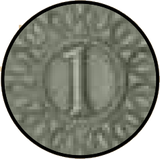
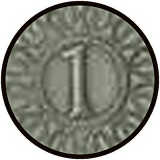
Чистое вырезание значков, уровень развития до 6, фикс обводки фокуса
Фактория и звезда развития теперь берутся из PDF вместе со своими
альфа-масками: раньше их вырезали заливкой фона с отрендеренной
страницы, из-за чего у фактории срезало правый бок, а у звезды
оставался серый ореол. Монета режется по окружности со сглаживанием
и получает ровную обводку вместо рваной. Все мелкие значки слегка
подняты по резкости после увеличения.

Уровень развития теперь до 6, а не до 5.

Поле ввода внутри степпера и кнопки переключателя уровня лежат
в блоке с overflow:hidden, поэтому внешняя обводка фокуса обрезалась
до синих полосок по бокам. Заменил её на рамку внутрь.

diff --git a/index.html b/index.html
@@ -49,6 +49,10 @@ body{margin:0;color:var(--ink);font:400 16px/1.45 var(--body);-webkit-text-size-
 button,input{font:inherit;color:inherit}
 button{touch-action:manipulation;-webkit-tap-highlight-color:transparent}
 :focus-visible{outline:3px solid var(--focus);outline-offset:2px}
+/* У степпера и переключателя уровня overflow:hidden, и внешняя обводка фокуса
+   обрезается до синих полосок по бокам поля. Внутри таких блоков подсвечиваем
+   рамкой внутрь — она видна целиком и не лезет на соседние кнопки. */
+.stepper :focus-visible,.seg :focus-visible{outline:none;box-shadow:inset 0 0 0 3px var(--focus)}
 h1,h2,h3{text-wrap:balance}
 img{max-width:100%}
 .sr{position:absolute;width:1px;height:1px;overflow:hidden;clip:rect(0 0 0 0);white-space:nowrap}
@@ -392,7 +396,7 @@ const CATS = [
   {id:'level', kind:'level', name:'Уровень развития', short:'Уровень развития', ico:'star',
     rule:'Множитель для факторий и жетонов горожан',
     hint:() => ({art:'<img src="img/star.png" alt="Звезда уровня развития" style="max-width:150px;margin:0 auto;box-shadow:none">',
-      text:['Уровень развития — это <b>жёлтая звезда</b>, которую ваш маркер на шкале развития прошёл последней. В начале игры уровень равен 1, максимум — 5.',
+      text:['Уровень развития — это <b>жёлтая звезда</b>, которую ваш маркер на шкале развития прошёл последней. В начале игры уровень равен 1, максимум — 6.',
             'Сам по себе уровень очков не даёт: на него умножаются фактории и жетоны горожан.',
             'При равенстве очков побеждает тот, кто продвинулся дальше по шкале развития — поэтому уровень стоит ввести всем.']})},
   {id:'city', kind:'city', name:'Фактории и горожане', short:'Фактории и горожане', ico:'station',
@@ -513,7 +517,7 @@ function catHTML(c) {
   let body;
   if (c.kind === 'level') {
     body = `<ul class="plist">${ps.map(p => `<li class="prow wide">${name(p)}<span class="lvlout" data-lvl="${p.id}"></span>
-      <div class="rctrl"><div class="seg" role="group" aria-label="Уровень развития: ${esc(p.name)}">${[1,2,3,4,5].map(n =>
+      <div class="rctrl"><div class="seg" role="group" aria-label="Уровень развития: ${esc(p.name)}">${[1, 2, 3, 4, 5, 6].map(n =>
         `<button type="button" data-level="${n}" data-pid="${p.id}" aria-pressed="${(p.v.level || 1) === n}" aria-label="Уровень ${n}">${img('star')}<b>${n}</b></button>`).join('')}</div></div></li>`).join('')}</ul>`;
   } else if (c.kind === 'city') {
     body = `<ul class="plist">${ps.map(p => `<li class="prow wide">${name(p)}${pts(p)}

diff --git a/tools/extract.py b/tools/extract.py
@@ -1,8 +1,8 @@
 # -*- coding: utf-8 -*-
 """Вырезает иллюстрации из правил «Орлеана» в папку img/ проекта."""
-import os, pymupdf, numpy as np
+import os, io, pymupdf, numpy as np
 from collections import deque
-from PIL import Image, ImageFilter
+from PIL import Image, ImageDraw, ImageFilter
 
 # Путь к правилам можно задать переменной окружения ORLEANS_PDF.
 PDF = os.environ.get('ORLEANS_PDF', r'M:\Downloads\Orleans.pdf')
@@ -66,12 +66,40 @@ def strip_bg(im, tol=34):
     rgba = im.convert('RGBA'); rgba.putalpha(alpha)
     return rgba.crop(rgba.getbbox() or (0, 0, im.width, im.height))
 
-def fit(im, size):
-    """Вписывает картинку в квадрат size×size, не растягивая."""
-    im = im.copy(); im.thumbnail((size, size), Image.LANCZOS)
+def fit(im, size, pad=0):
+    """Вписывает картинку в квадрат size×size, сохраняя пропорции."""
+    k = min((size - pad * 2) / im.width, (size - pad * 2) / im.height)
+    im = im.resize((max(1, round(im.width * k)), max(1, round(im.height * k))), Image.LANCZOS)
     canvas = Image.new('RGBA', (size, size), (0, 0, 0, 0))
     canvas.paste(im, ((size - im.width) // 2, (size - im.height) // 2))
     return canvas
+
+def sharpen(im, percent=70):
+    """Лёгкая резкость: оригиналы в правилах мелкие, после увеличения мылят."""
+    rgb = im.convert('RGB').filter(ImageFilter.UnsharpMask(1.8, percent, 2))
+    return Image.merge('RGBA', (*rgb.split(), im.getchannel('A')))
+
+def masked(xref, smask):
+    """Достаёт картинку вместе с её альфа-маской из PDF — контур получается точным,
+    без заливки фона от краёв и без риска срезать обводку."""
+    pm = pymupdf.Pixmap(pymupdf.Pixmap(doc, xref), pymupdf.Pixmap(doc, smask))
+    im = Image.frombytes('RGBA', (pm.width, pm.height), pm.samples)
+    bb = im.getchannel('A').getbbox()
+    return im.crop(bb) if bb else im
+
+def disc(xref, size, rim=4.5, ss=4):
+    """Круглый жетон (монета): маски в PDF нет, зато форма — окружность,
+    поэтому режем по ней со сглаживанием и возвращаем обводку, как в правилах."""
+    im = Image.open(io.BytesIO(doc.extract_image(xref)['image'])).convert('RGB')
+    out = im.resize((size, size), Image.LANCZOS).convert('RGBA')
+    box = (ss, ss, size * ss - ss - 1, size * ss - ss - 1)
+    m = Image.new('L', (size * ss,) * 2, 0)
+    ImageDraw.Draw(m).ellipse(box, fill=255)
+    out.putalpha(m.resize((size, size), Image.LANCZOS))
+    ring = Image.new('RGBA', (size * ss,) * 2, (0, 0, 0, 0))
+    ImageDraw.Draw(ring).ellipse(box, outline=(26, 20, 12, 255), width=round(ss * rim))
+    out.alpha_composite(ring.resize((size, size), Image.LANCZOS))
+    return out
 
 # --- жетоны товаров (стр. 3, рынок) и прочие значки (стр. 9, подсчёт очков) ---
 CUT = 17.0
@@ -81,12 +109,18 @@ for name, cx in TOKENS:
     fit(strip_bg(im), 160).save(f'{OUT}/{name}.png')
     print(name, 'ok')
 
-for name, rect, dpi in [('coin', (386, 454, 421, 490), 560),
-                        ('citizen', (440, 491, 478, 539), 560),
-                        ('station', (402, 495, 434, 535), 620),
-                        ('star', (497, 496, 534, 534), 560)]:
-    fit(strip_bg(render(8, rect, dpi)), 160).save(f'{OUT}/{name}.png')
+# Фактория и звезда развития лежат в PDF со своими альфа-масками — берём их
+# оттуда: контур выходит целым, тогда как вырезание с отрендеренной страницы
+# срезало фактории правый бок, а звезде оставляло серый ореол.
+for name, xref, smask, pad in [('station', 689, 690, 4), ('star', 691, 692, 2)]:
+    sharpen(fit(masked(xref, smask), 160, pad)).save(f'{OUT}/{name}.png')
     print(name, 'ok')
+
+sharpen(disc(687, 160)).save(f'{OUT}/coin.png')          # монета — маски нет, режем по кругу
+print('coin ok')
+
+sharpen(fit(strip_bg(render(8, (440, 491, 478, 539), 560)), 160, 2)).save(f'{OUT}/citizen.png')
+print('citizen ok')
 
 # --- тайлы производств (стр. 10) — крупная «шапка» для каждого товара ---
 PLACES = [('grain', 38.0, 107.6), ('cheese', 111.8, 181.7), ('wine', 184.3, 254.8),
@@ -97,7 +131,6 @@ for name, x0, x1 in PLACES:
     print('tile-' + name, im.size)
 
 # --- обложка (для превью в соцсетях) и фон-пергамент ---
-import io
 cov = Image.open(io.BytesIO(doc.extract_image(14)['image'])).convert('RGB')
 w, h = cov.size
 cov.resize((600, int(600 * h / w)), Image.LANCZOS).save(f'{OUT}/cover.jpg', quality=80, optimize=True)

diff --git a/README.md b/README.md
@@ -6,7 +6,7 @@
 - табло в стиле игрового поля: жетоны товаров, тайлы производств и вымпелы очков — картинки из правил;
 - подсказки «Как считать» с примерами из правил;
 - монеты набираются с клавиатуры — широкое поле вместо тыканья в «плюс» полсотни раз;
-- фактории и жетоны горожан умножаются на уровень развития;
+- фактории и жетоны горожан умножаются на уровень развития (от 1 до 6);
 - при ничьей сайт сам разбирает её по уровню развития, а если уровень тоже равный — спрашивает, чей маркер дальше по шкале (можно ответить «поровну» — тогда победителей несколько);
 - до 4 игроков;
 - выгрузка результатов: текст (копируется одной кнопкой), картинка PNG или JSON.
